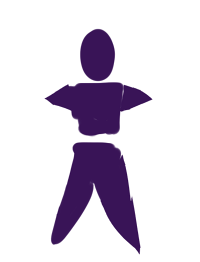
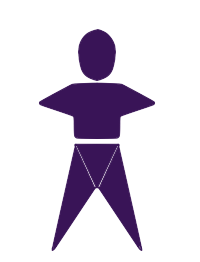
Armor now visibly degrades as it is destroyed.

diff --git a/core/src/com/majalis/battle/Battle.java b/core/src/com/majalis/battle/Battle.java
@@ -114,6 +114,13 @@ public class Battle extends Group{
 	private final Label underwearLabel;
 	private final Label enemyUnderwearLabel;
 	
+	private final Texture armorTexture;
+	private final Texture armorBrokenTexture;
+	
+	private final Image armorArmor;
+	private final Image enemyArmorArmor;
+	private final Image underwearArmor;
+	private final Image enemyUnderwearArmor;
 	private final Image legwearArmor;
 	private final Image enemyLegwearArmor;
 	
@@ -266,20 +273,21 @@ public class Battle extends Group{
 		
 		enemyWeaponLabel = initLabel("Weapon: " + (enemy.getWeapon() != null ? enemy.getWeapon().getName() : "Unarmed"), skin, Color.GOLDENROD, 1578, 900);	
 		
-		Texture armorTexture = assetManager.get(AssetEnum.ARMOR.getTexture());
+		armorTexture = assetManager.get(AssetEnum.ARMOR_0.getTexture());
+		armorBrokenTexture = assetManager.get(AssetEnum.ARMOR_1.getTexture());
 		Texture armorDollTexture = assetManager.get(AssetEnum.ARMOR_DOLL.getTexture());
 		// dolls
 		initImage(armorDollTexture, barX + 150, 700, 250);
 		initImage(armorDollTexture, 1425, 700, 250);
 		// body armor
-		initImage(armorTexture, barX + 224, 823, 50);
-		initImage(armorTexture, 1497, 823, 50);
+		armorArmor = initImage(character.getArmor() == null || character.getArmor().getDestructionLevel() == 0 ? armorTexture : armorBrokenTexture, barX + 224, 823, 50);
+		enemyArmorArmor = initImage(enemy.getArmor() == null || character.getArmor().getDestructionLevel() == 0 ? armorTexture : armorBrokenTexture, 1497, 823, 50);
 		// underwear first
-		initImage(armorTexture, barX + 224, 750, 50);
-		initImage(armorTexture, 1497, 750, 50);
+		underwearArmor = initImage(character.getUnderwear() == null || character.getUnderwear().getDestructionLevel() == 0 ? armorTexture : armorBrokenTexture, barX + 224, 750, 50);
+		enemyUnderwearArmor = initImage(enemy.getUnderwear() == null || character.getUnderwear().getDestructionLevel() == 0 ? armorTexture : armorBrokenTexture, 1497, 750, 50);
 		// then legwear
-		legwearArmor = initImage(armorTexture, barX + 224, 770, 50);
-		enemyLegwearArmor = initImage(armorTexture, 1497, 770, 50);
+		legwearArmor = initImage(character.getLegwear() == null || character.getLegwear().getDestructionLevel() == 0 ? armorTexture : armorBrokenTexture, barX + 224, 770, 50);
+		enemyLegwearArmor = initImage(character.getLegwear() == null || character.getLegwear().getDestructionLevel() == 0 ? armorTexture : armorBrokenTexture, 1497, 770, 50);
 		
 		armorLabel = initLabel("" + character.getArmorScore(), skin, Color.BROWN, barX + 236, 828);		
 		enemyArmorLabel = initLabel("" + enemy.getArmorScore(), skin, Color.BROWN, 1509, 828);
@@ -288,6 +296,24 @@ public class Battle extends Group{
 		legwearLabel = initLabel("" + character.getLegwearScore(), skin, Color.BROWN, barX + 236, 775);		
 		enemyLegwearLabel = initLabel("" + enemy.getLegwearScore(), skin, Color.BROWN, 1509, 775);	
 
+		if (character.getArmorScore() > 0) {
+			armorArmor.addAction(show());
+			armorLabel.addAction(show());
+		}
+		else {
+			armorArmor.addAction(hide());
+			armorLabel.addAction(hide());
+		}
+		
+		if (enemy.getArmorScore() > 0) {
+			enemyArmorArmor.addAction(show());
+			enemyArmorLabel.addAction(show());
+		}
+		else {
+			enemyArmorArmor.addAction(hide());
+			enemyArmorLabel.addAction(hide());
+		}
+ 		
 		if (character.getLegwearScore() > 0) {
 			underwearLabel.addAction(hide());
 			legwearArmor.addAction(show());
@@ -781,6 +807,15 @@ public class Battle extends Group{
 		enemyBloodLabel.setText("" + enemy.getBleed());	
 		enemyStatusLabel.setText(enemy.getStatusBlurb());
 		
+		armorArmor.setDrawable(getDrawable(character.getArmor() == null || character.getArmor().getDestructionLevel() == 0 ? armorTexture : armorBrokenTexture));
+		enemyArmorArmor.setDrawable(getDrawable(enemy.getArmor() == null || enemy.getArmor().getDestructionLevel() == 0 ? armorTexture : armorBrokenTexture));
+		
+		underwearArmor.setDrawable(getDrawable(character.getArmor() == null || character.getUnderwear().getDestructionLevel() == 0 ? armorTexture : armorBrokenTexture));
+		enemyUnderwearArmor.setDrawable(getDrawable(enemy.getArmor() == null || enemy.getUnderwear().getDestructionLevel() == 0 ? armorTexture : armorBrokenTexture));
+		
+		legwearArmor.setDrawable(getDrawable(character.getArmor() == null || character.getLegwear().getDestructionLevel() == 0 ? armorTexture : armorBrokenTexture));
+		enemyLegwearArmor.setDrawable(getDrawable(enemy.getArmor() == null || enemy.getLegwear().getDestructionLevel() == 0 ? armorTexture : armorBrokenTexture));
+		
 		if (character.getLegwearScore() > 0) {
 			underwearLabel.addAction(hide());
 			legwearArmor.addAction(show());
@@ -879,8 +914,12 @@ public class Battle extends Group{
 		}
 	}
 	
+	private TextureRegionDrawable getDrawable(Texture texture) {
+		return new TextureRegionDrawable(new TextureRegion(texture));
+	}
+	
 	private TextureRegionDrawable getDrawable(AssetDescriptor<Texture> AssetInfo) {
-		return new TextureRegionDrawable(new TextureRegion(assetManager.get(AssetInfo)));
+		return getDrawable(assetManager.get(AssetInfo));
 	}
 	
 	private void printToConsole(Array<String> results) {

diff --git a/core/src/com/majalis/screens/BattleScreen.java b/core/src/com/majalis/screens/BattleScreen.java
@@ -31,7 +31,7 @@ public class BattleScreen extends AbstractScreen{
 		
 		// need to refactor to get all stance textures
 		AssetEnum[] assets = new AssetEnum[]{
-			SLASH, BATTLE_HOVER, BATTLE_TEXTBOX, BATTLE_UI, BLEED, ARMOR,	
+			SLASH, BATTLE_HOVER, BATTLE_TEXTBOX, BATTLE_UI, BLEED, ARMOR_0, ARMOR_1,	
 			NULL_STANCE, ANAL, BLITZ, BALANCED, CASTING, COUNTER, DEFENSIVE, DOGGY, ERUPT, FELLATIO, FULL_NELSON, GROUND_WRESTLE, KNEELING, HANDS_AND_KNEES, HANDY, ITEM, COWGIRL, OFFENSIVE, OUROBOROS, FACEFUCK, PRONE, SUPINE, STANDING, AIRBORNE, FACE_SITTING, SIXTY_NINE, KNOTTED, SPREAD, PENETRATED, PRONEBONE, REVERSE_COWGIRL, WRAPPED,
 			PORTRAIT_NEUTRAL, PORTRAIT_AHEGAO, PORTRAIT_FELLATIO, PORTRAIT_MOUTHBOMB, PORTRAIT_GRIN, PORTRAIT_HIT, PORTRAIT_LOVE, PORTRAIT_LUST, PORTRAIT_SMILE, PORTRAIT_SURPRISE, PORTRAIT_GRIMACE, PORTRAIT_POUT, PORTRAIT_HAPPY, 
 			HEALTH_ICON_0, STAMINA_ICON_0, BALANCE_ICON_0, MANA_ICON_0, HEALTH_ICON_1, STAMINA_ICON_1, BALANCE_ICON_1, MANA_ICON_1, HEALTH_ICON_2, STAMINA_ICON_2, BALANCE_ICON_2, MANA_ICON_2, HEALTH_ICON_3, STAMINA_ICON_3, BALANCE_ICON_3, MANA_ICON_3, 

diff --git a/core/src/com/majalis/character/Armor.java b/core/src/com/majalis/character/Armor.java
@@ -63,15 +63,19 @@ public class Armor extends Item{
 	public boolean isUnderwear() { return type.isUnderwear(); }
 	public ChastityCage getCage() { return type.getCage(); }
 	public Plug getPlug() { return type.getPlug(); }
-	public int getShockAbsorption() { 
+	public int getDestructionLevel() {
 		int durabilityLoss = type.getMaxDurability() - durability;
-		int shockIndex = 0;
+		int destructionLevel = 0;
 		for (int value : type.getDurability().items) {
 			if (durabilityLoss >= value) {
-				shockIndex++;
+				destructionLevel++;
 				durabilityLoss -= value;
 			}
 		}
+		return destructionLevel;		
+	}
+	public int getShockAbsorption() { 
+		int shockIndex = getDestructionLevel();
 		// if shockIndex == type.getShockAbsorption, the durability is 0 and the item is broken
 		if (shockIndex >= type.getShockAbsorption().size) return 0;
 		return type.getShockAbsorption().get(shockIndex);

diff --git a/core/src/com/majalis/character/PlayerCharacter.java b/core/src/com/majalis/character/PlayerCharacter.java
@@ -1510,15 +1510,6 @@ public class PlayerCharacter extends AbstractCharacter {
 		return item.equals(weapon) || item.equals(armor) || item.equals(legwear) || item.equals(underwear) || item.equals(plug) || item.equals(cage);
 	}
 
-	public Armor getArmor() {
-		return armor;
-	}
-	public Armor getLegwear() {
-		return legwear;
-	}
-	public Armor getUnderwear() {
-		return underwear;
-	}
 	public int getAnalReceptionCount() {
 		return receivedAnal;
 	}

diff --git a/core/src/com/majalis/character/AbstractCharacter.java b/core/src/com/majalis/character/AbstractCharacter.java
@@ -286,6 +286,16 @@ public abstract class AbstractCharacter extends Actor {
 		return strengthDebuffed() ? "Weakening Curse" : "";
 	}
 	
+	public Armor getArmor() {
+		return armor;
+	}
+	public Armor getLegwear() {
+		return legwear;
+	}
+	public Armor getUnderwear() {
+		return underwear;
+	}
+	
 	protected int getDegradation(IntArray tiers, int currentValue) {
 		int numTiers = tiers.size;
 		int value = currentValue;

diff --git a/core/src/com/majalis/asset/AssetEnum.java b/core/src/com/majalis/asset/AssetEnum.java
@@ -133,7 +133,8 @@ public enum AssetEnum {
 	TRAP_BONUS("enemies/TrapBonus.jpg"), 
 	
 	ARMOR_DOLL("battle/ArmorDoll.png"),
-	ARMOR("battle/Armor.png"),
+	ARMOR_0("battle/Armor0.png"),
+	ARMOR_1("battle/Armor1.png"),
 	BLEED("battle/Blood.png"),
 	HEALTH_ICON_0("battle/Heart0.png"),
 	STAMINA_ICON_0("battle/Stam0.png"),
